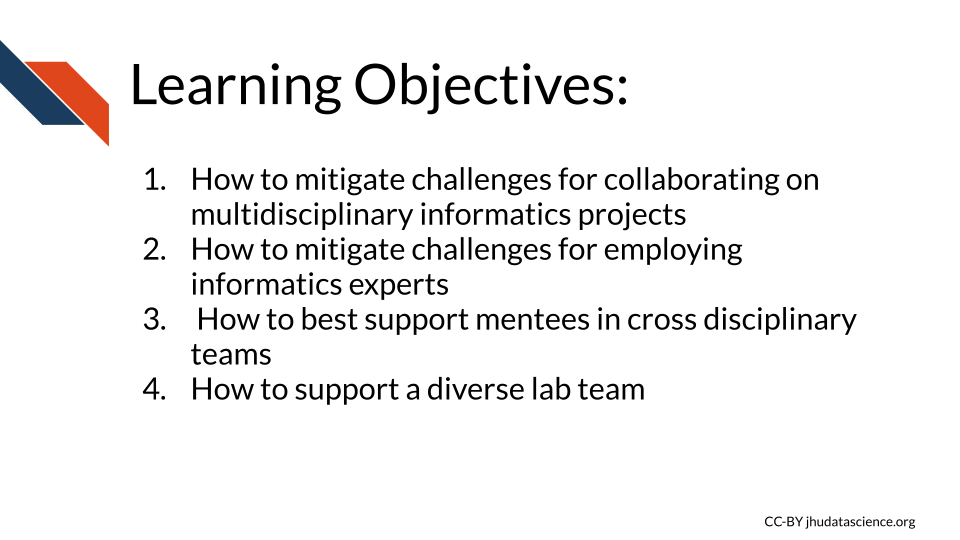
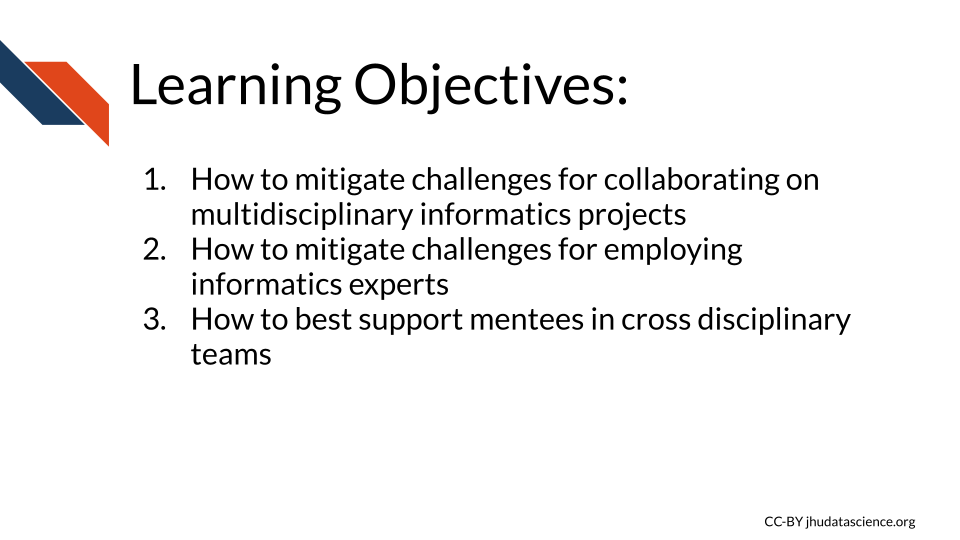
updating ch 4 a bit

Changed region(s): [[0.1875, 0.563, 0.9062, 0.6222], [0.1562, 0.7111, 0.6875, 0.7407]]

diff --git a/docs/informatics-relationships.html b/docs/informatics-relationships.html
@@ -54,69 +54,6 @@
 <script src="libs/anchor-sections-1.0.1/anchor-sections.js"></script>
 
 
-<style type="text/css">
-code.sourceCode > span { display: inline-block; line-height: 1.25; }
-code.sourceCode > span { color: inherit; text-decoration: inherit; }
-code.sourceCode > span:empty { height: 1.2em; }
-.sourceCode { overflow: visible; }
-code.sourceCode { white-space: pre; position: relative; }
-pre.sourceCode { margin: 0; }
-@media screen {
-div.sourceCode { overflow: auto; }
-}
-@media print {
-code.sourceCode { white-space: pre-wrap; }
-code.sourceCode > span { text-indent: -5em; padding-left: 5em; }
-}
-pre.numberSource code
-  { counter-reset: source-line 0; }
-pre.numberSource code > span
-  { position: relative; left: -4em; counter-increment: source-line; }
-pre.numberSource code > span > a:first-child::before
-  { content: counter(source-line);
-    position: relative; left: -1em; text-align: right; vertical-align: baseline;
-    border: none; display: inline-block;
-    -webkit-touch-callout: none; -webkit-user-select: none;
-    -khtml-user-select: none; -moz-user-select: none;
-    -ms-user-select: none; user-select: none;
-    padding: 0 4px; width: 4em;
-    color: #aaaaaa;
-  }
-pre.numberSource { margin-left: 3em; border-left: 1px solid #aaaaaa;  padding-left: 4px; }
-div.sourceCode
-  {  background-color: #f8f8f8; }
-@media screen {
-code.sourceCode > span > a:first-child::before { text-decoration: underline; }
-}
-code span.al { color: #ef2929; } /* Alert */
-code span.an { color: #8f5902; font-weight: bold; font-style: italic; } /* Annotation */
-code span.at { color: #c4a000; } /* Attribute */
-code span.bn { color: #0000cf; } /* BaseN */
-code span.cf { color: #204a87; font-weight: bold; } /* ControlFlow */
-code span.ch { color: #4e9a06; } /* Char */
-code span.cn { color: #000000; } /* Constant */
-code span.co { color: #8f5902; font-style: italic; } /* Comment */
-code span.cv { color: #8f5902; font-weight: bold; font-style: italic; } /* CommentVar */
-code span.do { color: #8f5902; font-weight: bold; font-style: italic; } /* Documentation */
-code span.dt { color: #204a87; } /* DataType */
-code span.dv { color: #0000cf; } /* DecVal */
-code span.er { color: #a40000; font-weight: bold; } /* Error */
-code span.ex { } /* Extension */
-code span.fl { color: #0000cf; } /* Float */
-code span.fu { color: #000000; } /* Function */
-code span.im { } /* Import */
-code span.in { color: #8f5902; font-weight: bold; font-style: italic; } /* Information */
-code span.kw { color: #204a87; font-weight: bold; } /* Keyword */
-code span.op { color: #ce5c00; font-weight: bold; } /* Operator */
-code span.ot { color: #8f5902; } /* Other */
-code span.pp { color: #8f5902; font-style: italic; } /* Preprocessor */
-code span.sc { color: #000000; } /* SpecialChar */
-code span.ss { color: #4e9a06; } /* SpecialString */
-code span.st { color: #4e9a06; } /* String */
-code span.va { color: #000000; } /* Variable */
-code span.vs { color: #4e9a06; } /* VerbatimString */
-code span.wa { color: #8f5902; font-weight: bold; font-style: italic; } /* Warning */
-</style>
 
 
 <link rel="stylesheet" href="assets/style_ITN.css" type="text/css" />
@@ -277,7 +214,7 @@ code span.wa { color: #8f5902; font-weight: bold; font-style: italic; } /* Warni
 </div>
 <div id="informatics-relationships" class="section level1">
 <h1><span class="header-section-number">Chapter 4</span> Informatics Relationships</h1>
-<p><img src="04-informatics_relationships_files/figure-html/1OU5qeRgN_fojGbcyu2qEdwlcKpDO6BveWtYW_u1Hqd4_gd8ed090282_0_205.png" title=" Learning Objectives: 1) How to mitigate challenges for collaborating on multidisciplinary informatics projects 2) How to mitigate challenges for employing informatics experts 3) How to best support mentees in cross disciplinary teams 4) How to support a diverse lab team" alt=" Learning Objectives: 1) How to mitigate challenges for collaborating on multidisciplinary informatics projects 2) How to mitigate challenges for employing informatics experts 3) How to best support mentees in cross disciplinary teams 4) How to support a diverse lab team" width="100%" /></p>
+<p><img src="04-informatics_relationships_files/figure-html/1OU5qeRgN_fojGbcyu2qEdwlcKpDO6BveWtYW_u1Hqd4_gd8ed090282_0_205.png" title=" Learning Objectives: 1) How to mitigate challenges for collaborating on multidisciplinary informatics projects 2) How to mitigate challenges for employing informatics experts 3) How to best support mentees in cross disciplinary teams" alt=" Learning Objectives: 1) How to mitigate challenges for collaborating on multidisciplinary informatics projects 2) How to mitigate challenges for employing informatics experts 3) How to best support mentees in cross disciplinary teams" width="100%" /></p>
 <div id="cultivating-good-multidisciplinary-lab-relationships" class="section level2">
 <h2><span class="header-section-number">4.1</span> Cultivating Good Multidisciplinary Lab Relationships</h2>
 <p>Now that we know a bit more about general practices for maintaining successful multidisciplinary teams and projects, we are going to take a deeper look at how to best support the relationships that might we might have in our team. We will also discuss the pros and cons of each type of relationship to better guide you about decisions regarding building your team.</p>
@@ -300,9 +237,6 @@ code span.wa { color: #8f5902; font-weight: bold; font-style: italic; } /* Warni
 <div id="potential-challenges" class="section level3">
 <h3><span class="header-section-number">4.2.2</span> Potential Challenges</h3>
 <p>There are always challenges when collaborating with others, but some of these are particularly enhanced in multi-disciplinary teams. Here are some challenges that you may encounter when a collaboration involves informatics experts.</p>
-<p>Good Collaboration:</p>
-<p>Is this repeated
-<img src="04-informatics_relationships_files/figure-html/1OU5qeRgN_fojGbcyu2qEdwlcKpDO6BveWtYW_u1Hqd4_gc53d3d234f_0_1182.png" title=" Sally, the super supportive leader thinks to herself: He is the best! Meanwhile, Harry the helpful collaborator says: Now that I understand the Biology better - thanks to you!- I think I know a better method" alt=" Sally, the super supportive leader thinks to herself: He is the best! Meanwhile, Harry the helpful collaborator says: Now that I understand the Biology better - thanks to you!- I think I know a better method" width="100%" /></p>
 <p>Bad collaboration:</p>
 <p><img src="04-informatics_relationships_files/figure-html/1OU5qeRgN_fojGbcyu2qEdwlcKpDO6BveWtYW_u1Hqd4_gc53d3d234f_0_210.png" title=" Charlie the unclear leader says: jargon, jargon, jargon... so I'd guess this will take you a day? Meanwhile, Francis the frustrated informaticist thinks to herself: What is he talking about? Are we even at the same table?" alt=" Charlie the unclear leader says: jargon, jargon, jargon... so I'd guess this will take you a day? Meanwhile, Francis the frustrated informaticist thinks to herself: What is he talking about? Are we even at the same table?" width="100%" /></p>
 <ol style="list-style-type: decimal">
@@ -341,9 +275,7 @@ code span.wa { color: #8f5902; font-weight: bold; font-style: italic; } /* Warni
 <p>In reality, even for well-established data types, analysis can often take as much or more time and effort to perform as generating the data at the bench. Moreover, it typically also requires pipeline optimization, software development and maintenance, and user interfaces so that methods remain usable beyond the scope of a single publication or project.</p>
 </blockquote>
 <p>Don’t forget to provide some budget for your inforomatics collaborators, as their time ultimately does cost money and there may be computational costs that you may not be aware of.</p>
-<p><img src="images/challenges.png" />
-Avocado - find slide</p>
-<p><img src="04-informatics_relationships_files/figure-html/1OU5qeRgN_fojGbcyu2qEdwlcKpDO6BveWtYW_u1Hqd4_gd37aae88fc_0_0.png" title=" avocado" alt=" avocado" width="100%" /></p>
+<p><img src="04-informatics_relationships_files/figure-html/1OU5qeRgN_fojGbcyu2qEdwlcKpDO6BveWtYW_u1Hqd4_gdd469195e0_0_5.png" title=" avocado" alt=" avocado" width="100%" /></p>
 </div>
 </div>
 <div id="employing-informatics-experts" class="section level2">
@@ -359,12 +291,6 @@ Avocado - find slide</p>
 <h2><span class="header-section-number">4.4</span> Mentoring informatics students</h2>
 <p>Mentorship is a particularly unique relational experience. While traditional mentorship has been defined by the hierarchical structure of a single mentor who teaches subordinate mentees, new styles have emerged that are not as constrained or limited as the traditional paradigm. At its optimum, mentors and mentees should learn from each other and together and expand what each can do alone. Importantly the more traditional paradigm that does not value “reciprocal learning” as highly, has been shown to be less effective for a larger diversity of students.<span class="citation">(Mullen and Klimaitis <a href="#ref-mullen_defining_2021" role="doc-biblioref">2021</a>)</span></p>
 <p>For research groups that are newer to informatics, some of these less traditional paradigms may be especially useful, we will focus on a few here.</p>
-<p>avocado - add to slides… if we are keeping…</p>
-<div class="figure">
-<img src="images/mentoring_pardigms.png" alt="" />
-<p class="caption">Alternative Montorship</p>
-</div>
-<p><a href="https://doi.org/10.1111/nyas.14176">[source]</a></p>
 <div id="co-mentoringcollaborativeteam-mentoring" class="section level3">
 <h3><span class="header-section-number">4.4.1</span> Co-mentoring/Collaborative/team mentoring</h3>
 <p>As we described earlier, co-mentoring or collaborative mentoring of students by multiple mentors with different backgrounds can be particularly beneficial to the student and also to the partnering labs. In the case of collaborative mentoring where a mentee is mentored by two research experts in two different labs, this provides an opportunity not only to strengthen a collaboration, but also for students to gain more diverse knowledge, and to in turn provide more of the expertise that they gain back to both labs. Co-mentoring could also occur within the same lab by a research leader and an informatics expert. This could also work well in a multilevel paradigm, where an informatics expert may guide informatics related aspects of research, while an overarching research adviser may guide the student’s overall research mentorship experience.</p>
@@ -411,12 +337,10 @@ your informatics mentees could find jobs at companies such as <a href="https://w
 <li>Oracle - strong in modeling and mechanics (great for machine learning companies)</li>
 <li>Maker - strong in mechanics and engineering</li>
 </ol>
+<p align="center">
 <iframe width="560" height="315" src="https://www.youtube.com/embed/M_dc-XzApGA" frameborder="0" allow="accelerometer; autoplay; clipboard-write; encrypted-media; gyroscope; picture-in-picture" allowfullscreen>
 </iframe>
-<iframe width="560" height="315" src="https://www.youtube.com/embed/M_dc-XzApGA" frameborder="0" allow="accelerometer; autoplay; clipboard-write; encrypted-media; gyroscope; picture-in-picture" allowfullscreen>
-</iframe>
-<p>AVOCADO - add more about this
-<a href="https://www.manning.com/books/build-a-career-in-data-science" class="uri">https://www.manning.com/books/build-a-career-in-data-science</a></p>
+</p>
 <p>Major skill sets to focus on according to the “Build a Career in Data Science” book by Emily Robinson and Jacqueline Nolis (<span class="citation">Robinson and Nolis (<a href="#ref-robinson_build_nodate" role="doc-biblioref">2020</a>)</span>):
 1) statistics
 2) Machine learning

diff --git a/docs/informatics-project-guideliness.html b/docs/informatics-project-guideliness.html
@@ -54,69 +54,6 @@
 <script src="libs/anchor-sections-1.0.1/anchor-sections.js"></script>
 
 
-<style type="text/css">
-code.sourceCode > span { display: inline-block; line-height: 1.25; }
-code.sourceCode > span { color: inherit; text-decoration: inherit; }
-code.sourceCode > span:empty { height: 1.2em; }
-.sourceCode { overflow: visible; }
-code.sourceCode { white-space: pre; position: relative; }
-pre.sourceCode { margin: 0; }
-@media screen {
-div.sourceCode { overflow: auto; }
-}
-@media print {
-code.sourceCode { white-space: pre-wrap; }
-code.sourceCode > span { text-indent: -5em; padding-left: 5em; }
-}
-pre.numberSource code
-  { counter-reset: source-line 0; }
-pre.numberSource code > span
-  { position: relative; left: -4em; counter-increment: source-line; }
-pre.numberSource code > span > a:first-child::before
-  { content: counter(source-line);
-    position: relative; left: -1em; text-align: right; vertical-align: baseline;
-    border: none; display: inline-block;
-    -webkit-touch-callout: none; -webkit-user-select: none;
-    -khtml-user-select: none; -moz-user-select: none;
-    -ms-user-select: none; user-select: none;
-    padding: 0 4px; width: 4em;
-    color: #aaaaaa;
-  }
-pre.numberSource { margin-left: 3em; border-left: 1px solid #aaaaaa;  padding-left: 4px; }
-div.sourceCode
-  {  background-color: #f8f8f8; }
-@media screen {
-code.sourceCode > span > a:first-child::before { text-decoration: underline; }
-}
-code span.al { color: #ef2929; } /* Alert */
-code span.an { color: #8f5902; font-weight: bold; font-style: italic; } /* Annotation */
-code span.at { color: #c4a000; } /* Attribute */
-code span.bn { color: #0000cf; } /* BaseN */
-code span.cf { color: #204a87; font-weight: bold; } /* ControlFlow */
-code span.ch { color: #4e9a06; } /* Char */
-code span.cn { color: #000000; } /* Constant */
-code span.co { color: #8f5902; font-style: italic; } /* Comment */
-code span.cv { color: #8f5902; font-weight: bold; font-style: italic; } /* CommentVar */
-code span.do { color: #8f5902; font-weight: bold; font-style: italic; } /* Documentation */
-code span.dt { color: #204a87; } /* DataType */
-code span.dv { color: #0000cf; } /* DecVal */
-code span.er { color: #a40000; font-weight: bold; } /* Error */
-code span.ex { } /* Extension */
-code span.fl { color: #0000cf; } /* Float */
-code span.fu { color: #000000; } /* Function */
-code span.im { } /* Import */
-code span.in { color: #8f5902; font-weight: bold; font-style: italic; } /* Information */
-code span.kw { color: #204a87; font-weight: bold; } /* Keyword */
-code span.op { color: #ce5c00; font-weight: bold; } /* Operator */
-code span.ot { color: #8f5902; } /* Other */
-code span.pp { color: #8f5902; font-style: italic; } /* Preprocessor */
-code span.sc { color: #000000; } /* SpecialChar */
-code span.ss { color: #4e9a06; } /* SpecialString */
-code span.st { color: #4e9a06; } /* String */
-code span.va { color: #000000; } /* Variable */
-code span.vs { color: #4e9a06; } /* VerbatimString */
-code span.wa { color: #8f5902; font-weight: bold; font-style: italic; } /* Warning */
-</style>
 
 
 <link rel="stylesheet" href="assets/style_ITN.css" type="text/css" />
@@ -429,6 +366,11 @@ In the worst case that the data does not appear to work for your initial goal an
 <p>These are also good resources for finding cancer related data:<br />
 - The <a href="https://www.cbioportal.org/">cBioPortal</a><br />
 - This <a href="https://www.nature.com/scitable/topicpage/genomic-data-resources-challenges-and-promises-743721/">article</a></p>
+<p>Keep in mind that using new data takes time.</p>
+<p>Using an existing script on new data rarely works because data can be formatted differently and have other intrinsic differences. This must first be evaluated to know how to proceed.</p>
+<p>The following steps are required:
+<img src="03-project_guidelines_files/figure-html/1OU5qeRgN_fojGbcyu2qEdwlcKpDO6BveWtYW_u1Hqd4_gd37aae88fc_0_15.png" title=" Using new data requires these steps 1) Check the quality of the new data, 2) Reformat/wrangle the new data to match that of the existing data, 3)  Evaluate how different the new data is from the old data - are they similar enough to be included in a larger analysis or does this require two analyses? 4) Perform the analysis on the new data" alt=" Using new data requires these steps 1) Check the quality of the new data, 2) Reformat/wrangle the new data to match that of the existing data, 3)  Evaluate how different the new data is from the old data - are they similar enough to be included in a larger analysis or does this require two analyses? 4) Perform the analysis on the new data" width="100%" /></p>
+<p>Overall we will summarize our suggestions for avoiding project pitfalls.</p>
 <p><img src="03-project_guidelines_files/figure-html/1OU5qeRgN_fojGbcyu2qEdwlcKpDO6BveWtYW_u1Hqd4_gd37aae88fc_0_5.png" title=" How to Overcome Pitfalls: 1) Discuss with experts early and often 2) Diversify  projects for lab members 3) Safe project planning - have a “safe” project for each lab member (review articles, project with promising pilot data, tool development) 4) Encourage co-authorship of lab members 5) Plan for extra time in case things go wrong 6) Adjust and reframe 7) Get new data" alt=" How to Overcome Pitfalls: 1) Discuss with experts early and often 2) Diversify  projects for lab members 3) Safe project planning - have a “safe” project for each lab member (review articles, project with promising pilot data, tool development) 4) Encourage co-authorship of lab members 5) Plan for extra time in case things go wrong 6) Adjust and reframe 7) Get new data" width="100%" /></p>
 
 </div>

diff --git a/06-management_tools.knit.md b/06-management_tools.knit.md
@@ -1,0 +1,83 @@
+---
+title: "04-management_tools"
+output: html_document
+---
+
+# Informatics lab management tools
+
+There are several tools that can be especially useful for assisting with day-to-day management of projects involving informatics regardless of if you are simply collaborating with an informatics expert or you are leading an informatics research team.
+
+<img src="06-management_tools_files/figure-html//1OU5qeRgN_fojGbcyu2qEdwlcKpDO6BveWtYW_u1Hqd4_gd93234bdfa_0_30.png" title="Learning Objectives: 1. Know how Slack can be used to communicate with team members. 2. Understanding of the concept of version control and how Git and GitHub can help track changes within code and other files over time. 3. Know what Docker is and how it is used for standardizing software  development and delivery. 4. Awareness of Figshare and how it is useful for sharing research files. 5. Understand what RStudio and R Markdown are and how to use RMarkdown to create research reports. 6. Awareness of the Jupyter project and how Jupyter Notebooks can also be used to create research reports." alt="Learning Objectives: 1. Know how Slack can be used to communicate with team members. 2. Understanding of the concept of version control and how Git and GitHub can help track changes within code and other files over time. 3. Know what Docker is and how it is used for standardizing software  development and delivery. 4. Awareness of Figshare and how it is useful for sharing research files. 5. Understand what RStudio and R Markdown are and how to use RMarkdown to create research reports. 6. Awareness of the Jupyter project and how Jupyter Notebooks can also be used to create research reports." width="100%" />
+
+## Slack
+
+
+[Slack](https://slack.com/) is a communication tool that allows you to communicate with lab members much more efficiently than email. It is a bit like a combination of an instant message system, email, and dropbox. 
+
+
+<img src="06-management_tools_files/figure-html//1OU5qeRgN_fojGbcyu2qEdwlcKpDO6BveWtYW_u1Hqd4_gd93234bdfa_0_35.png" title="Wait, what is Slack? It's a new way to communicate -faster than email and more focused than chat" alt="Wait, what is Slack? It's a new way to communicate -faster than email and more focused than chat" width="100%" />
+
+
+<p align = "center> <iframe width="560" height="315" src="https://www.youtube-nocookie.com/embed/EYqxQGmQkVw" frameborder="0" allow="accelerometer; autoplay; clipboard-write; encrypted-media; gyroscope; picture-in-picture" allowfullscreen></iframe></p>
+
+You can do quite well with the free version of slack. It may be all that your research group needs indefinitely. The major difference between the free version and the paid versions is that the free version does not save all of your message history. 
+
+Currently, with the free version you can search through the history of the last 10,000 messages. From our experience using this with a department with about 250 users, it takes about a year to reach this threshold. If you choose to go with the free option and share any really important messages or files, make sure to save them just in case.
+
+## How to use slack?
+
+### Workspaces
+
+The main landing page for slack is called a workspace, which looks like this:
+
+
+<img src="06-management_tools_files/figure-html//1OU5qeRgN_fojGbcyu2qEdwlcKpDO6BveWtYW_u1Hqd4_gd93234bdfa_0_42.png" title="An image of a slack profile landing page whcih shows workspaces on the far left, then channels, then messages for a specific channel." alt="An image of a slack profile landing page whcih shows workspaces on the far left, then channels, then messages for a specific channel." width="100%" />
+
+In the above image, this person has five workspaces which are indicated by the squares on the far left. Each workspace allows for multiple channels for communicating. These channels can include all members of the workspace or specific subsets of members. Team members can also have separate direct messages to have one-on-one discussions.
+
+It's a good idea to check if your department or institute is already using slack. If so, they may have a workspace that you can join. Otherwise you may want to think about recruiting your department or institute to start using slack. In this case you could start a workspace where people outside your research group can communicate. This would still allow you to have group messages with your lab or specific groups within the lab. Otherwise, you can start a workspace just for your research group. 
+
+### Channels
+
+Channels are the main way in which you can converse with your team on slack.
+
+We recommend making a slack channel for your entire research group. Everyone in your group will be able to discuss something by sending messages in real time. If someone is not available at that time, they will see the message when they next check slack. 
+We also recommend making project specific channels. For these channels you can add all of the team members working on a specific project, so that they can easily discuss and review discussions about the project. 
+
+Importantly, you can make channels private or public. If a channel is public, anyone in the workspace can join.
+
+<img src="06-management_tools_files/figure-html//1OU5qeRgN_fojGbcyu2qEdwlcKpDO6BveWtYW_u1Hqd4_gd93234bdfa_0_48.png" title="Create a channel: Channels are where your team communicates. They're best when organized around a topic - #marketing, for example. Provide a name and optionally a description. You can also decide to make a channel private, it can only be viewed or joined by inivitation." alt="Create a channel: Channels are where your team communicates. They're best when organized around a topic - #marketing, for example. Provide a name and optionally a description. You can also decide to make a channel private, it can only be viewed or joined by inivitation." width="100%" />
+
+## Features
+
+### Pins
+
+If someone sends a really important message, like a link to a relevant document, you can "pin" the message so that it is easier to find later. 
+
+Hovering over a message you will get the following options:
+
+<img src="06-management_tools_files/figure-html//1OU5qeRgN_fojGbcyu2qEdwlcKpDO6BveWtYW_u1Hqd4_gd93234bdfa_0_53.png" title="An image of the options for a slack message" alt="An image of the options for a slack message" width="100%" />
+
+Clicking on the 3 dot button allows you to do several useful things for a message including pinning it to find it easily later.
+
+
+
+
+
+
+
+
+
+
+
+
+
+
+
+
+
+
+
+
+
+

diff --git a/docs/04-informatics_relationships.md b/docs/04-informatics_relationships.md
@@ -5,7 +5,7 @@ output: html_document
 # Informatics Relationships
 
 
-<img src="04-informatics_relationships_files/figure-html//1OU5qeRgN_fojGbcyu2qEdwlcKpDO6BveWtYW_u1Hqd4_gd8ed090282_0_205.png" title=" Learning Objectives: 1) How to mitigate challenges for collaborating on multidisciplinary informatics projects 2) How to mitigate challenges for employing informatics experts 3) How to best support mentees in cross disciplinary teams 4) How to support a diverse lab team" alt=" Learning Objectives: 1) How to mitigate challenges for collaborating on multidisciplinary informatics projects 2) How to mitigate challenges for employing informatics experts 3) How to best support mentees in cross disciplinary teams 4) How to support a diverse lab team" width="100%" />
+<img src="04-informatics_relationships_files/figure-html//1OU5qeRgN_fojGbcyu2qEdwlcKpDO6BveWtYW_u1Hqd4_gd8ed090282_0_205.png" title=" Learning Objectives: 1) How to mitigate challenges for collaborating on multidisciplinary informatics projects 2) How to mitigate challenges for employing informatics experts 3) How to best support mentees in cross disciplinary teams" alt=" Learning Objectives: 1) How to mitigate challenges for collaborating on multidisciplinary informatics projects 2) How to mitigate challenges for employing informatics experts 3) How to best support mentees in cross disciplinary teams" width="100%" />
 
 ## Cultivating Good Multidisciplinary Lab Relationships
 
@@ -29,11 +29,6 @@ Studies investigating biology research labs over history indicate that collabora
 ### Potential Challenges
 
 There are always challenges when collaborating with others, but some of these are particularly enhanced in multi-disciplinary teams. Here are some challenges that you may encounter when a collaboration involves informatics experts.
-
-Good Collaboration:
-
-Is this repeated
-<img src="04-informatics_relationships_files/figure-html//1OU5qeRgN_fojGbcyu2qEdwlcKpDO6BveWtYW_u1Hqd4_gc53d3d234f_0_1182.png" title=" Sally, the super supportive leader thinks to herself: He is the best! Meanwhile, Harry the helpful collaborator says: Now that I understand the Biology better - thanks to you!- I think I know a better method" alt=" Sally, the super supportive leader thinks to herself: He is the best! Meanwhile, Harry the helpful collaborator says: Now that I understand the Biology better - thanks to you!- I think I know a better method" width="100%" />
 
 Bad collaboration:
 
@@ -85,10 +80,9 @@ However:
 
 Don't forget to provide some budget for your inforomatics collaborators, as their time ultimately does cost money and there may be computational costs that you may not be aware of. 
 
-![](images/challenges.png)
-Avocado - find slide
 
-<img src="04-informatics_relationships_files/figure-html//1OU5qeRgN_fojGbcyu2qEdwlcKpDO6BveWtYW_u1Hqd4_gd37aae88fc_0_0.png" title=" avocado" alt=" avocado" width="100%" />
+
+<img src="04-informatics_relationships_files/figure-html//1OU5qeRgN_fojGbcyu2qEdwlcKpDO6BveWtYW_u1Hqd4_gdd469195e0_0_5.png" title=" avocado" alt=" avocado" width="100%" />
 
 
 ## Employing informatics experts
@@ -111,11 +105,6 @@ Mentorship is a particularly unique relational experience. While traditional men
 
 For research groups that are newer to informatics, some of these less traditional paradigms may be especially useful, we will focus on a few here. 
 
-avocado - add to slides... if we are keeping...
-
-![Alternative Montorship](images/mentoring_pardigms.png)
-
-[[source]](https://doi.org/10.1111/nyas.14176)
 
 ### Co-mentoring/Collaborative/team mentoring
 
@@ -163,13 +152,8 @@ _Archetypes of data scientists:_
   b) Oracle - strong in modeling and mechanics (great for machine learning companies)
   c) Maker - strong in mechanics and engineering
   
-<iframe width="560" height="315" src="https://www.youtube.com/embed/M_dc-XzApGA" frameborder="0" allow="accelerometer; autoplay; clipboard-write; encrypted-media; gyroscope; picture-in-picture" allowfullscreen></iframe>
+<p align ="center"><iframe width="560" height="315" src="https://www.youtube.com/embed/M_dc-XzApGA" frameborder="0" allow="accelerometer; autoplay; clipboard-write; encrypted-media; gyroscope; picture-in-picture" allowfullscreen></iframe> </p>
 
-<iframe width="560" height="315" src="https://www.youtube.com/embed/M_dc-XzApGA" frameborder="0" allow="accelerometer; autoplay; clipboard-write; encrypted-media; gyroscope; picture-in-picture" allowfullscreen></iframe>
-
-
-AVOCADO - add more about this
-https://www.manning.com/books/build-a-career-in-data-science 
 
 Major skill sets to focus on according to the "Build a Career in Data Science" book by Emily Robinson and Jacqueline Nolis (@robinson_build_nodate):
 1) statistics

diff --git a/docs/03-project_guidelines.md b/docs/03-project_guidelines.md
@@ -204,6 +204,15 @@ These are also good resources for finding cancer related data:
  - This [article](https://www.nature.com/scitable/topicpage/genomic-data-resources-challenges-and-promises-743721/)  
 
 
+Keep in mind that using new data takes time.
+
+Using an existing script on new data rarely works because data can be formatted differently and have other intrinsic differences. This must first be evaluated to know how to proceed.
+
+The following steps are required:
+<img src="03-project_guidelines_files/figure-html//1OU5qeRgN_fojGbcyu2qEdwlcKpDO6BveWtYW_u1Hqd4_gd37aae88fc_0_15.png" title=" Using new data requires these steps 1) Check the quality of the new data, 2) Reformat/wrangle the new data to match that of the existing data, 3)  Evaluate how different the new data is from the old data - are they similar enough to be included in a larger analysis or does this require two analyses? 4) Perform the analysis on the new data" alt=" Using new data requires these steps 1) Check the quality of the new data, 2) Reformat/wrangle the new data to match that of the existing data, 3)  Evaluate how different the new data is from the old data - are they similar enough to be included in a larger analysis or does this require two analyses? 4) Perform the analysis on the new data" width="100%" />
+
+Overall we will summarize our suggestions for avoiding project pitfalls.
+
 <img src="03-project_guidelines_files/figure-html//1OU5qeRgN_fojGbcyu2qEdwlcKpDO6BveWtYW_u1Hqd4_gd37aae88fc_0_5.png" title=" How to Overcome Pitfalls: 1) Discuss with experts early and often 2) Diversify  projects for lab members 3) Safe project planning - have a “safe” project for each lab member (review articles, project with promising pilot data, tool development) 4) Encourage co-authorship of lab members 5) Plan for extra time in case things go wrong 6) Adjust and reframe 7) Get new data" alt=" How to Overcome Pitfalls: 1) Discuss with experts early and often 2) Diversify  projects for lab members 3) Safe project planning - have a “safe” project for each lab member (review articles, project with promising pilot data, tool development) 4) Encourage co-authorship of lab members 5) Plan for extra time in case things go wrong 6) Adjust and reframe 7) Get new data" width="100%" />
 
 
